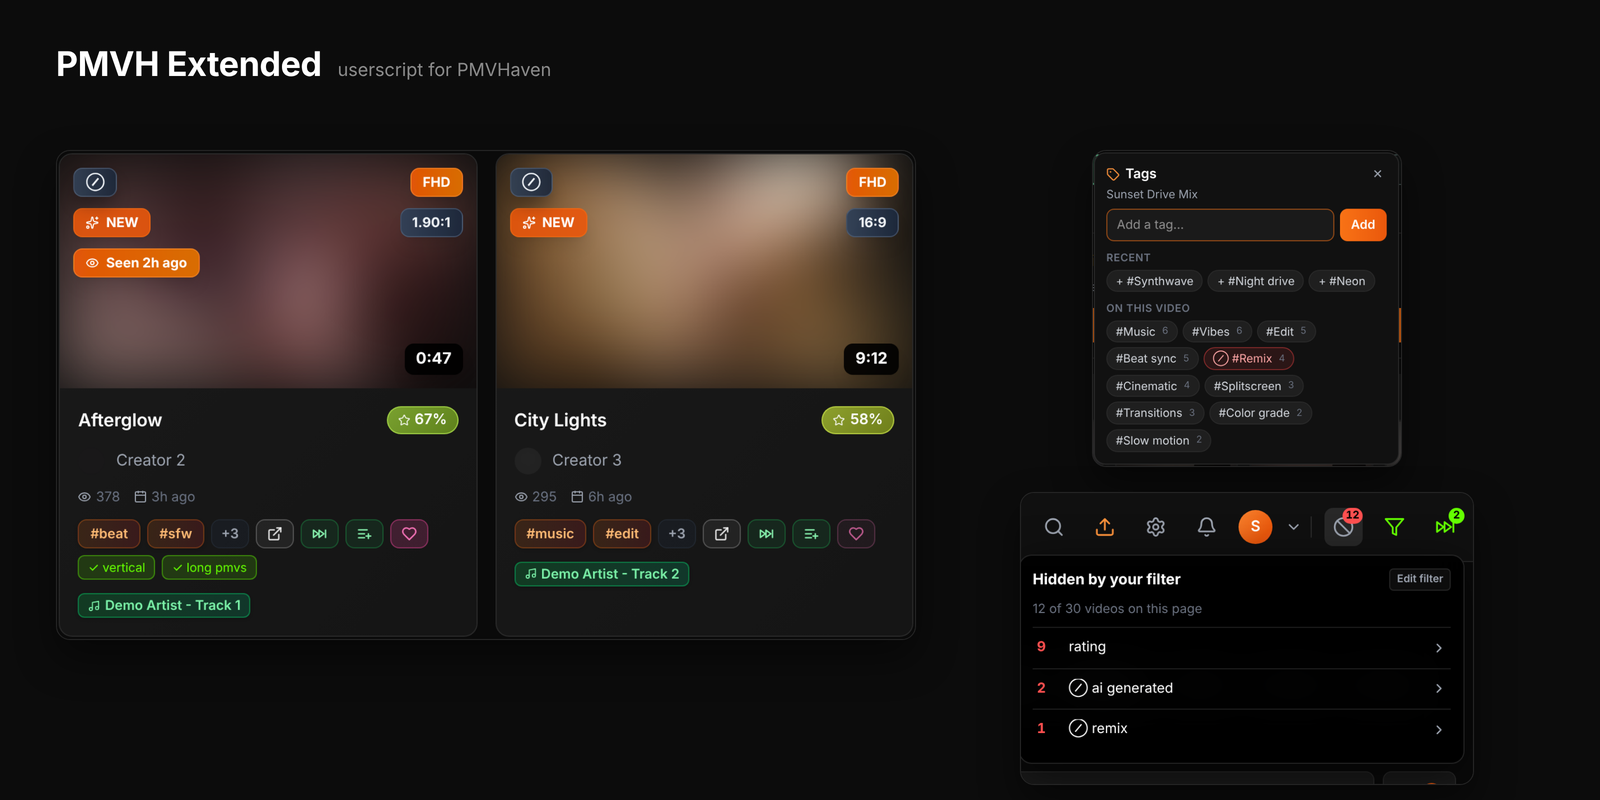
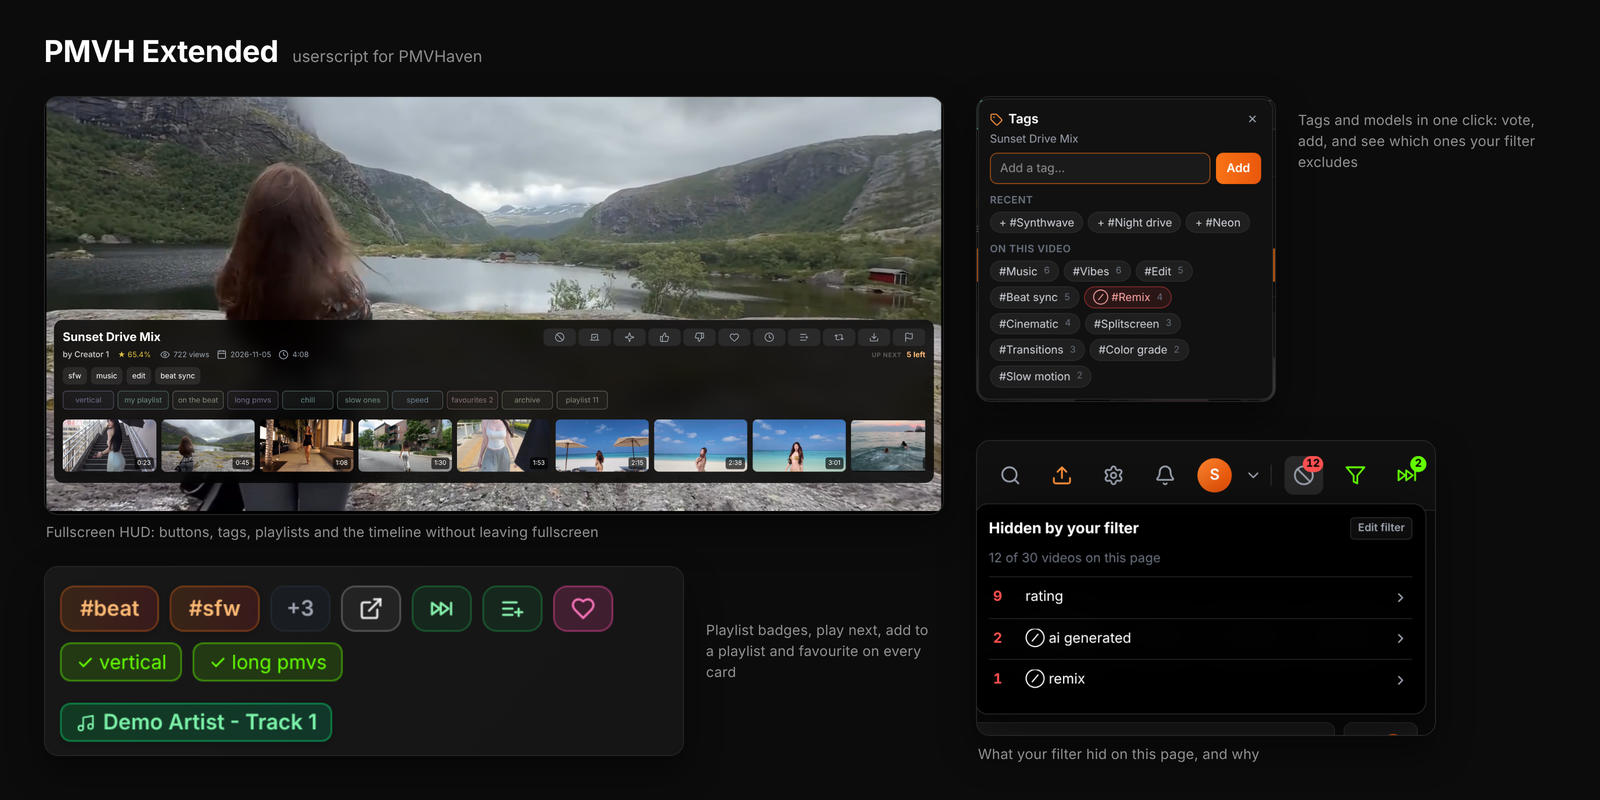
1.2.47: unblurred fullscreen HUD shot, collage cover; sidebar rows get a generic extension hook

diff --git a/pmvh-extended.user.js b/pmvh-extended.user.js
@@ -1,7 +1,7 @@
 // ==UserScript==
 // @name         PMVH Extended for PMVHaven
 // @namespace    https://github.com/shooptydoopty-glitch/pmvh-extended
-// @version      1.2.46
+// @version      1.2.47
 // @description  Playlist tools for PMVHaven: playlist buttons and badges everywhere, a fullscreen HUD, an Up next queue, filters for videos and playlists, remappable hotkeys, a command palette and a seekbar preview.
 // @author       shooptydoopty-glitch
 // @license      MIT
@@ -140,6 +140,7 @@ PMVX.playlistFilterExempt = () => {
 // The playlist whose page this is (its own videos are always "in" it), or null.
 PMVX.currentPlaylistPageId = () => location.pathname.match(/^\/playlists\/([a-f0-9]{24})/i)?.[1] || null;
 
+PMVX.apiTaps = [];
 PMVX.filterChecks = [];
 PMVX.anyCardFilterActive = () => PMVX.filterChecks.some(fn => { try { return !!fn(); } catch { return false; } });
 
@@ -3959,7 +3960,7 @@ whenBody(() => {
 
             State.playlists.clear();
             cached.playlists.forEach(p => {
-                State.playlists.set(p.id, { id: p.id, name: p.name, ids: new Set(p.ids || []), stats: p.stats || null });
+                State.playlists.set(p.id, { id: p.id, name: p.name, ids: new Set(p.ids || []) });
             });
             State.cacheLoadedAt = cached.updatedAt;
             State.ready = true;
@@ -3989,7 +3990,7 @@ whenBody(() => {
             const data = {
                 updatedAt: Date.now(),
                 playlists: [...State.playlists.values()].map(p => ({
-                    id: p.id, name: p.name, ids: [...p.ids], stats: p.stats || null
+                    id: p.id, name: p.name, ids: [...p.ids]
                 }))
             };
             localStorage.setItem(CACHE_KEY, JSON.stringify(data));
@@ -3997,16 +3998,6 @@ whenBody(() => {
             // Notify the other modules that the cache is ready.
             notifyCacheReady();
         } catch {}
-    }
-
-    // Rating and views of an own playlist, from the list response (the API has no follower count).
-    function playlistStats(p) {
-        return {
-            // Without votes the site's bayesian rating is a flat 50 %: not shown.
-            rating: Number.isFinite(p?.bayesianRating) && ((p.likes || 0) + (p.dislikes || 0)) > 0 ? p.bayesianRating : null,
-            views: Number.isFinite(p?.views) ? p.views : 0,
-            isPublic: p?.isPublic !== false,
-        };
     }
 
     function cacheIsFresh() {
@@ -4077,24 +4068,8 @@ whenBody(() => {
         return ownerIdPromise;
     }
 
-    // A fresh cache from before stats were stored: one list request fills them in (once per page load).
-    let statsFillDone = false;
-    async function fillPlaylistStats() {
-        if (statsFillDone || ![...State.playlists.values()].some(p => !p.stats)) return;
-        statsFillDone = true;
-        try {
-            const ownerId = await getOwnerId();
-            if (!ownerId) return;
-            const j = await api(`/api/playlists?owner=${ownerId}&limit=100`);
-            const list = j?.data || j?.playlists || [];
-            list.forEach(p => { const e = State.playlists.get(p._id); if (e) e.stats = playlistStats(p); });
-            saveCache();
-            try { injectSavedNav(); } catch {}
-        } catch {}
-    }
-
     async function refreshUserPlaylists({ force = false } = {}) {
-        if (!force && State.ready && cacheIsFresh()) { fillPlaylistStats(); return; }
+        if (!force && State.ready && cacheIsFresh()) return;
         if (State.refreshPromise) return State.refreshPromise;
 
         State.refreshPromise = (async () => {
@@ -4125,7 +4100,7 @@ whenBody(() => {
                 });
                 indexVideoDetails(videoDetails);
 
-                return { id: p._id, name: p.name || p.title || p._id, ids, stats: playlistStats(p) };
+                return { id: p._id, name: p.name || p.title || p._id, ids };
             }
 
             const nextPlaylists = new Map();
@@ -4368,6 +4343,11 @@ whenBody(() => {
             const url = typeof args[0] === 'string' ? args[0] : args[0]?.url || '';
             // One parse shared by all handlers below.
             const jsonP = /\/api\//.test(url) ? pmvResJson(res) : null;
+
+            // Extension point: PMVX.apiTaps listeners get (url, json) of every API response.
+            if (jsonP && PMVX.apiTaps.length) {
+                jsonP.then(json => PMVX.apiTaps.forEach(fn => { try { fn(url, json); } catch {} })).catch(() => {});
+            }
 
             // Learn slug to _id mappings from any API response.
             if (jsonP) {
@@ -5247,10 +5227,9 @@ ${R} textarea::placeholder{color:rgb(107,114,128);}
         else location.href = href;
     }
 
-    const NAV_EYE_SVG = '<svg width="10" height="10" viewBox="0 0 24 24" fill="none" stroke="currentColor" stroke-width="2" stroke-linecap="round" stroke-linejoin="round" style="display:inline;vertical-align:-1px;"><path d="M2.06 12.35a1 1 0 0 1 0-.7 10.75 10.75 0 0 1 19.88 0 1 1 0 0 1 0 .7 10.75 10.75 0 0 1-19.88 0"/><circle cx="12" cy="12" r="3"/></svg>';
-    const NAV_LOCK_SVG = '<svg width="10" height="10" viewBox="0 0 24 24" fill="none" stroke="currentColor" stroke-width="2" stroke-linecap="round" stroke-linejoin="round" style="display:inline;vertical-align:-1px;"><rect width="18" height="11" x="3" y="11" rx="2" ry="2"/><path d="M7 11V7a5 5 0 0 1 10 0v4"/></svg>';
-    const compactCount = n => n >= 1e6 ? (n / 1e6).toFixed(n >= 1e7 ? 0 : 1).replace(/\.0$/, '') + 'M'
-        : n >= 1e3 ? (n / 1e3).toFixed(n >= 1e4 ? 0 : 1).replace(/\.0$/, '') + 'K' : String(n);
+    // Extension points for builds that add to the sidebar rows: navRowHook(link, playlist) and
+    // navRowSig(playlist) (part of the redraw signature); refreshSavedNav redraws.
+    PMVX.refreshSavedNav = () => { try { injectSavedNav(); } catch {} };
 
     function savedNavLink(template, href, label, icon, extraTitle) {
         const a = template.cloneNode(true);
@@ -5289,7 +5268,7 @@ ${R} textarea::placeholder{color:rgb(107,114,128);}
             playlistSortIndex(a.name) - playlistSortIndex(b.name) || (a.name || '').localeCompare(b.name || ''));
         // Logged out (no playlists known): no group.
         if (!playlists.length) { existing?.remove(); return; }
-        const sig = savedNavOpen + '|' + playlists.map(p => p.id + ':' + getPlaylistDisplayName(p.name, p.id) + ':' + p.ids.size + ':' + JSON.stringify(p.stats || null)).join('|');
+        const sig = savedNavOpen + '|' + playlists.map(p => p.id + ':' + getPlaylistDisplayName(p.name, p.id) + ':' + p.ids.size + ':' + (PMVX.navRowSig?.(p) || '')).join('|');
         if (existing && existing.previousElementSibling === exploreGroup && savedNavSig === sig) return;
 
         const headRowTpl = exploreToggle.closest('div.flex.items-center.justify-between');
@@ -5348,24 +5327,7 @@ ${R} textarea::placeholder{color:rgb(107,114,128);}
                 n.textContent = String(p.ids.size);
                 n.style.cssText = 'flex-shrink:0;font-size:11px;color:rgb(107,114,128);font-variant-numeric:tabular-nums;';
                 a.appendChild(n);
-                // Second line: rating and views (or "private").
-                const st = p.stats;
-                const label = a.querySelector('span.flex-1');
-                if (st && label) {
-                    const nameEl = document.createElement('span');
-                    nameEl.textContent = label.textContent;
-                    nameEl.style.cssText = 'display:block;overflow:hidden;text-overflow:ellipsis;white-space:nowrap;';
-                    const sub = document.createElement('span');
-                    sub.style.cssText = 'display:flex;gap:8px;margin-top:1px;font-size:10.5px;line-height:1.2;color:rgb(107,114,128);font-variant-numeric:tabular-nums;white-space:nowrap;overflow:hidden;';
-                    const parts = [];
-                    if (st.rating !== null) parts.push(`<span style="color:rgba(250,204,21,.75);">\u2605 ${Math.round(st.rating)}%</span>`);
-                    if (st.isPublic) parts.push(`<span>${NAV_EYE_SVG} ${escHtml(compactCount(st.views))}</span>`);
-                    else parts.push(`<span>${NAV_LOCK_SVG} private</span>`);
-                    sub.innerHTML = parts.join('');
-                    label.textContent = '';
-                    label.append(nameEl, sub);
-                    a.title += ` \u2014 ${st.rating !== null ? Math.round(st.rating) + '% rating, ' : ''}${st.isPublic ? st.views.toLocaleString() + ' views' : 'private'}`;
-                }
+                try { PMVX.navRowHook?.(a, p); } catch {}
                 items.appendChild(a);
             });
             group.appendChild(items);

diff --git a/src/hud.js b/src/hud.js
@@ -218,7 +218,7 @@
 
             State.playlists.clear();
             cached.playlists.forEach(p => {
-                State.playlists.set(p.id, { id: p.id, name: p.name, ids: new Set(p.ids || []), stats: p.stats || null });
+                State.playlists.set(p.id, { id: p.id, name: p.name, ids: new Set(p.ids || []) });
             });
             State.cacheLoadedAt = cached.updatedAt;
             State.ready = true;
@@ -248,7 +248,7 @@
             const data = {
                 updatedAt: Date.now(),
                 playlists: [...State.playlists.values()].map(p => ({
-                    id: p.id, name: p.name, ids: [...p.ids], stats: p.stats || null
+                    id: p.id, name: p.name, ids: [...p.ids]
                 }))
             };
             localStorage.setItem(CACHE_KEY, JSON.stringify(data));
@@ -256,16 +256,6 @@
             // Notify the other modules that the cache is ready.
             notifyCacheReady();
         } catch {}
-    }
-
-    // Rating and views of an own playlist, from the list response (the API has no follower count).
-    function playlistStats(p) {
-        return {
-            // Without votes the site's bayesian rating is a flat 50 %: not shown.
-            rating: Number.isFinite(p?.bayesianRating) && ((p.likes || 0) + (p.dislikes || 0)) > 0 ? p.bayesianRating : null,
-            views: Number.isFinite(p?.views) ? p.views : 0,
-            isPublic: p?.isPublic !== false,
-        };
     }
 
     function cacheIsFresh() {
@@ -336,24 +326,8 @@
         return ownerIdPromise;
     }
 
-    // A fresh cache from before stats were stored: one list request fills them in (once per page load).
-    let statsFillDone = false;
-    async function fillPlaylistStats() {
-        if (statsFillDone || ![...State.playlists.values()].some(p => !p.stats)) return;
-        statsFillDone = true;
-        try {
-            const ownerId = await getOwnerId();
-            if (!ownerId) return;
-            const j = await api(`/api/playlists?owner=${ownerId}&limit=100`);
-            const list = j?.data || j?.playlists || [];
-            list.forEach(p => { const e = State.playlists.get(p._id); if (e) e.stats = playlistStats(p); });
-            saveCache();
-            try { injectSavedNav(); } catch {}
-        } catch {}
-    }
-
     async function refreshUserPlaylists({ force = false } = {}) {
-        if (!force && State.ready && cacheIsFresh()) { fillPlaylistStats(); return; }
+        if (!force && State.ready && cacheIsFresh()) return;
         if (State.refreshPromise) return State.refreshPromise;
 
         State.refreshPromise = (async () => {
@@ -384,7 +358,7 @@
                 });
                 indexVideoDetails(videoDetails);
 
-                return { id: p._id, name: p.name || p.title || p._id, ids, stats: playlistStats(p) };
+                return { id: p._id, name: p.name || p.title || p._id, ids };
             }
 
             const nextPlaylists = new Map();
@@ -627,6 +601,11 @@
             const url = typeof args[0] === 'string' ? args[0] : args[0]?.url || '';
             // One parse shared by all handlers below.
             const jsonP = /\/api\//.test(url) ? pmvResJson(res) : null;
+
+            // Extension point: PMVX.apiTaps listeners get (url, json) of every API response.
+            if (jsonP && PMVX.apiTaps.length) {
+                jsonP.then(json => PMVX.apiTaps.forEach(fn => { try { fn(url, json); } catch {} })).catch(() => {});
+            }
 
             // Learn slug to _id mappings from any API response.
             if (jsonP) {
@@ -1506,10 +1485,9 @@ ${R} textarea::placeholder{color:rgb(107,114,128);}
         else location.href = href;
     }
 
-    const NAV_EYE_SVG = '<svg width="10" height="10" viewBox="0 0 24 24" fill="none" stroke="currentColor" stroke-width="2" stroke-linecap="round" stroke-linejoin="round" style="display:inline;vertical-align:-1px;"><path d="M2.06 12.35a1 1 0 0 1 0-.7 10.75 10.75 0 0 1 19.88 0 1 1 0 0 1 0 .7 10.75 10.75 0 0 1-19.88 0"/><circle cx="12" cy="12" r="3"/></svg>';
-    const NAV_LOCK_SVG = '<svg width="10" height="10" viewBox="0 0 24 24" fill="none" stroke="currentColor" stroke-width="2" stroke-linecap="round" stroke-linejoin="round" style="display:inline;vertical-align:-1px;"><rect width="18" height="11" x="3" y="11" rx="2" ry="2"/><path d="M7 11V7a5 5 0 0 1 10 0v4"/></svg>';
-    const compactCount = n => n >= 1e6 ? (n / 1e6).toFixed(n >= 1e7 ? 0 : 1).replace(/\.0$/, '') + 'M'
-        : n >= 1e3 ? (n / 1e3).toFixed(n >= 1e4 ? 0 : 1).replace(/\.0$/, '') + 'K' : String(n);
+    // Extension points for builds that add to the sidebar rows: navRowHook(link, playlist) and
+    // navRowSig(playlist) (part of the redraw signature); refreshSavedNav redraws.
+    PMVX.refreshSavedNav = () => { try { injectSavedNav(); } catch {} };
 
     function savedNavLink(template, href, label, icon, extraTitle) {
         const a = template.cloneNode(true);
@@ -1548,7 +1526,7 @@ ${R} textarea::placeholder{color:rgb(107,114,128);}
             playlistSortIndex(a.name) - playlistSortIndex(b.name) || (a.name || '').localeCompare(b.name || ''));
         // Logged out (no playlists known): no group.
         if (!playlists.length) { existing?.remove(); return; }
-        const sig = savedNavOpen + '|' + playlists.map(p => p.id + ':' + getPlaylistDisplayName(p.name, p.id) + ':' + p.ids.size + ':' + JSON.stringify(p.stats || null)).join('|');
+        const sig = savedNavOpen + '|' + playlists.map(p => p.id + ':' + getPlaylistDisplayName(p.name, p.id) + ':' + p.ids.size + ':' + (PMVX.navRowSig?.(p) || '')).join('|');
         if (existing && existing.previousElementSibling === exploreGroup && savedNavSig === sig) return;
 
         const headRowTpl = exploreToggle.closest('div.flex.items-center.justify-between');
@@ -1607,24 +1585,7 @@ ${R} textarea::placeholder{color:rgb(107,114,128);}
                 n.textContent = String(p.ids.size);
                 n.style.cssText = 'flex-shrink:0;font-size:11px;color:rgb(107,114,128);font-variant-numeric:tabular-nums;';
                 a.appendChild(n);
-                // Second line: rating and views (or "private").
-                const st = p.stats;
-                const label = a.querySelector('span.flex-1');
-                if (st && label) {
-                    const nameEl = document.createElement('span');
-                    nameEl.textContent = label.textContent;
-                    nameEl.style.cssText = 'display:block;overflow:hidden;text-overflow:ellipsis;white-space:nowrap;';
-                    const sub = document.createElement('span');
-                    sub.style.cssText = 'display:flex;gap:8px;margin-top:1px;font-size:10.5px;line-height:1.2;color:rgb(107,114,128);font-variant-numeric:tabular-nums;white-space:nowrap;overflow:hidden;';
-                    const parts = [];
-                    if (st.rating !== null) parts.push(`<span style="color:rgba(250,204,21,.75);">\u2605 ${Math.round(st.rating)}%</span>`);
-                    if (st.isPublic) parts.push(`<span>${NAV_EYE_SVG} ${escHtml(compactCount(st.views))}</span>`);
-                    else parts.push(`<span>${NAV_LOCK_SVG} private</span>`);
-                    sub.innerHTML = parts.join('');
-                    label.textContent = '';
-                    label.append(nameEl, sub);
-                    a.title += ` \u2014 ${st.rating !== null ? Math.round(st.rating) + '% rating, ' : ''}${st.isPublic ? st.views.toLocaleString() + ' views' : 'private'}`;
-                }
+                try { PMVX.navRowHook?.(a, p); } catch {}
                 items.appendChild(a);
             });
             group.appendChild(items);

diff --git a/src/core.js b/src/core.js
@@ -120,6 +120,7 @@ PMVX.playlistFilterExempt = () => {
 // The playlist whose page this is (its own videos are always "in" it), or null.
 PMVX.currentPlaylistPageId = () => location.pathname.match(/^\/playlists\/([a-f0-9]{24})/i)?.[1] || null;
 
+PMVX.apiTaps = [];
 PMVX.filterChecks = [];
 PMVX.anyCardFilterActive = () => PMVX.filterChecks.some(fn => { try { return !!fn(); } catch { return false; } });
 

diff --git a/README.md b/README.md
@@ -49,7 +49,7 @@ Every video shows whether it is already in one of your playlists, and adding or 
 <table>
 <tr>
 <td width="50%" valign="top"><img src="docs/screenshots/04-recommended.png" alt="Recommended with playlist badges"><br><sub>① All / In playlist / Not in playlist. ② Playlist badge on saved videos. ③ Play next, add to a playlist, add to favourites. ④ Reject, in the corner of the thumbnail.</sub></td>
-<td width="50%" valign="top"><img src="docs/screenshots/20-tag-menu.png" alt="Compact tag menu"><br><sub>① The tag menu: the video's tags with their votes (click to upvote, again to take it back), recent tags, and autocomplete for new ones. Tags your filter excludes show in red. The same menu exists for models.</sub><br><br><img src="docs/screenshots/19-sidebar.png" alt="Saved content in the sidebar" width="220"><br><sub>① <i>Saved content</i> in the site's sidebar: your favourites and every playlist, with its size, rating and views.</sub></td>
+<td width="50%" valign="top"><img src="docs/screenshots/20-tag-menu.png" alt="Compact tag menu"><br><sub>① The tag menu: the video's tags with their votes (click to upvote, again to take it back), recent tags, and autocomplete for new ones. Tags your filter excludes show in red. The same menu exists for models.</sub><br><br><img src="docs/screenshots/19-sidebar.png" alt="Saved content in the sidebar" width="220"><br><sub>① <i>Saved content</i> in the site's sidebar: your favourites and every playlist, with its size.</sub></td>
 </tr>
 </table>
 
@@ -74,7 +74,7 @@ Every video shows whether it is already in one of your playlists, and adding or 
 Move the mouse to the bottom of the screen — or press <kbd>I</kbd> — and everything about the video is there: title, rating, tags and performers, your playlist buttons, the timeline and what plays next. Click a tag to require it in your filter, click again to exclude it.
 
 ![Fullscreen HUD](docs/screenshots/07-fullscreen-hud.png)
-*① The button row, including reject, tags and models. ② Click a tag to require, exclude or clear it in the filter. ③ Playlist buttons. ④ Timeline thumbnails. With a queue, the next video and how many are left sit on the right.*
+*① The button row, including reject, tags and models. ② Click a tag to require, exclude or clear it in the filter. ③ Playlist buttons. ④ Timeline thumbnails. With an Up next queue, how many videos are left sits on the right.*
 
 A frame preview follows the mouse along the seek bar, in normal and fullscreen mode.
 

diff --git a/docs/screenshots/README.md b/docs/screenshots/README.md
@@ -7,7 +7,7 @@ The images in this folder were taken in headless Chromium (Playwright) at 1440×
 - The built `pmvh-extended.user.js` was injected at document start, like a userscript manager does, with the default Balanced performance mode.
 - All requests that would change account data were blocked; only GET requests reached the site. Up next is stored in the browser only.
 - Thumbnails, avatars and player frames are blurred heavily with injected CSS, and video streams were not loaded. Sponsored cards and content-warning labels were removed from the page.
-- Older player shots use a safe video on a checked frame, left unblurred; newer ones blur the player and its timeline thumbnails as well.
+- The player shots use a safe video on a checked frame, left unblurred, as are its own timeline thumbnails in the HUD; the fullscreen HUD shot shows that video filling the screen.
 - Video titles, tags, song titles and uploader names were replaced with neutral demo text in the page before each screenshot, and the account's own playlist names in the API responses (display only).
 - Ads were hidden and every image was checked by hand before committing.
 
